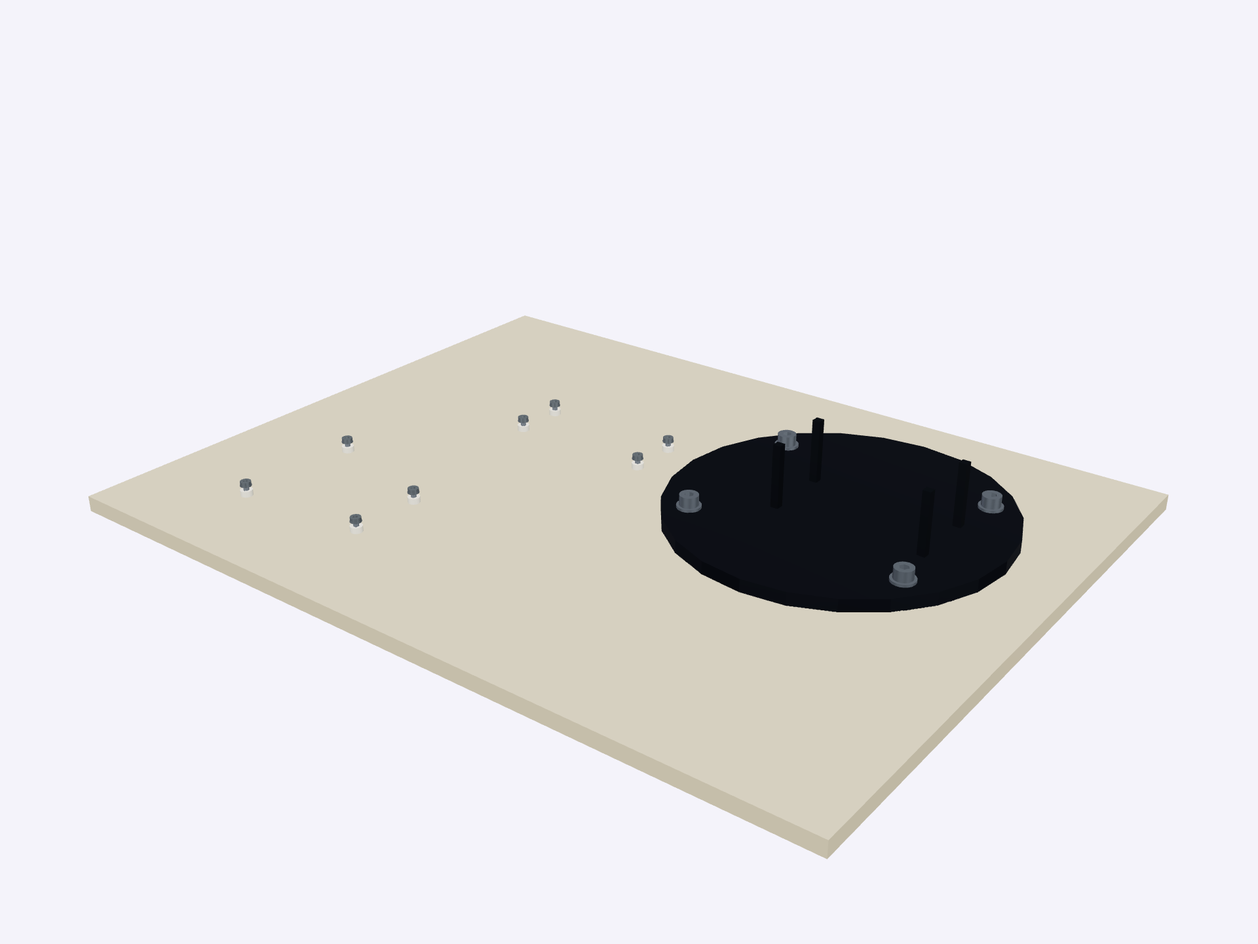
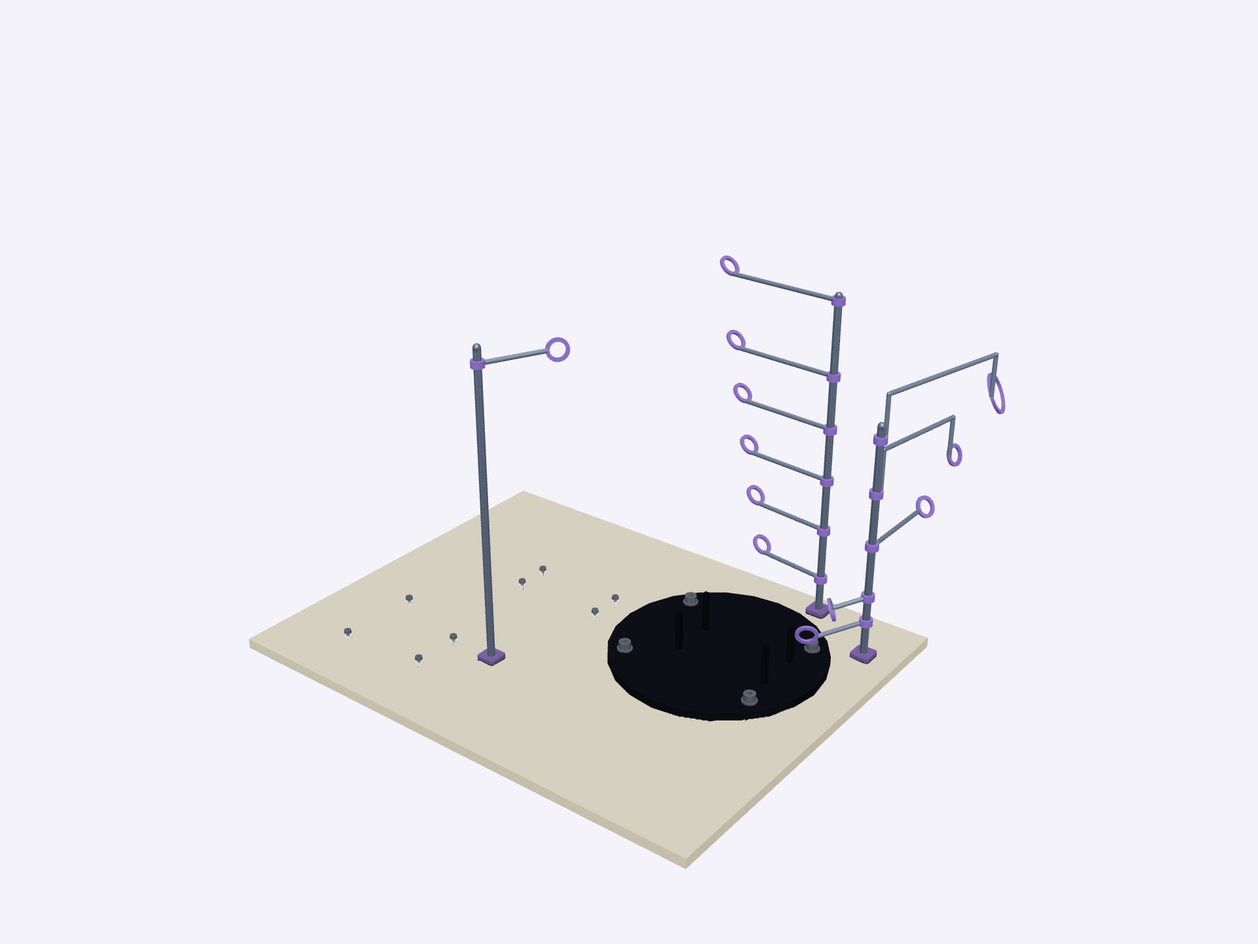
Integrate arm cable guides and add private two-build workshop chooser

Changed region(s): [[0.0625, 0.3125, 0.9375, 0.9375], [0.7188, 0.375, 0.8125, 0.4375], [0.5625, 0.2812, 0.6562, 0.3125]]

diff --git a/scripts/fixtures/rover-arm-cables.tsx b/scripts/fixtures/rover-arm-cables.tsx
@@ -1,8 +1,8 @@
-import LoomSupport from'../../src/modules/RoverArmLoomSupport';import{raArmLoomSupportParts}from'../../src/data/rover-arm-loom-support';
+import{raArmLoomSupportParts}from'../../src/data/rover-arm-loom-support';
 import Uno from'../../src/modules/RoverArmUnoParts';import Jumpers from'../../src/modules/RoverArmLogicJumpers';import Usb from'../../src/modules/RoverArmUsbParts';import Supply from'../../src/modules/RoverArmSupplyParts';import Mounts from'../../src/modules/RoverArmBoardMounts';import Anchors from'../../src/modules/RoverArmAnchors';import{raArmUnoAt}from'../../src/data/rover-arm-electronics';
 import{createRoot}from'react-dom/client';import{useRef,useState,memo}from'react';import{Canvas,useFrame,useThree,type ThreeEvent}from'@react-three/fiber';import{OrbitControls}from'@react-three/drei';import{Box3,Vector3,type PerspectiveCamera}from'three';
 import Cables from'../../src/modules/RoverArmCables';import Board from'../../src/modules/RoverArmPcaParts';import{raArmCableParts}from'../../src/data/rover-arm-cable-route';import{raPcaParts}from'../../src/data/rover-arm-pca';import Arm from'../../src/modules/RoverArmMechanics';import{raArmParts,raArmNeutral,raArmJoints}from'../../src/data/rover-arm-mechanics';import{raServoParts}from'../../src/data/rover-arm-servo';import Studio from'../../src/modules/SchoolBellStudioLight';import Label from'../../src/modules/CraneSurfaceLabel';import{inspectCraneSurface}from'../../src/modules/crane-inspection';import{floodSurfaceAnchor,floodAnchorWorld,type FloodAnchor}from'../../src/data/flood-surface';
 const FixedStudio=memo(Studio),prefix='ra-wired-arm';const allParts=[...raArmLoomSupportParts,...raArmCableParts(),...raPcaParts(),...raArmParts(),...raArmJoints.flatMap(j=>raServoParts('ra-arm-'+j.id+'-servo',j.label))];
-function Scene({angles,selected,choose,fullStation,powerOn,seating,loomSupport}:{loomSupport:boolean;fullStation:boolean;powerOn:boolean;seating:readonly(number|null)[];angles:number[];selected:string;choose:(id:string)=>void}){const r=useThree(),anchor=useRef<FloodAnchor|null>(null);useFrame(()=>Object.assign(window,{__raLoomScene:r,__raLoomAnchor:anchor,__raLoomSelected:selected,__raLoomFocus:(id:string,preferred?:[number,number,number])=>{r.scene.updateMatrixWorld(true);const root=r.scene.getObjectByName(prefix)!,part=r.scene.getObjectByName(id);if(!part)return null;const box=new Box3();part.traverse(o=>{if('isMesh'in o&&o.isMesh&&!('text'in o))box.expandByObject(o,true);});const camera=r.camera as PerspectiveCamera,distance=Math.max(.04,box.getSize(new Vector3()).length()*1.8);camera.near=distance/300;camera.updateProjectionMatrix();const a=inspectCraneSurface(root,camera,r.controls as any,id,preferred?new Vector3(...preferred):box.getCenter(new Vector3()),distance,r.size.width,r.size.height);if(!a)return null;const p=floodAnchorWorld(a).project(camera);return{x:(p.x+1)*r.size.width/2,y:(1-p.y)*r.size.height/2};}}));return <><FixedStudio/><color attach="background" args={['#eef0fa']}/><ambientLight intensity={1}/><directionalLight position={[2,4,3]} intensity={2.5}/><group scale={.01} onPointerDown={(e:ThreeEvent<PointerEvent>)=>{e.stopPropagation();anchor.current=floodSurfaceAnchor(e.object,e.point,e.face,e.instanceId);}}><group name="ra-wired-arm" userData={{fullStation,stationPowered:powerOn}}>{fullStation&&<><group position={[...raArmUnoAt]}><Uno {...{selected,choose}} powered={powerOn}/></group><Jumpers {...{selected,choose}} connected={['vcc','ground','sda','scl']}/><Usb {...{selected}} select={choose} usb={powerOn}/><Supply {...{selected,choose}} state={{on:powerOn,voltage:6,positive:{source:0,terminal:0,tight:true},negative:{source:0,terminal:0,tight:true}}}/><Mounts {...{selected,choose}}/>{loomSupport&&<LoomSupport {...{selected,choose}}/>}<Anchors {...{selected,choose}}/></>}<Arm {...{angles,selected,choose}}/><group position={[-110,3,0]}><Board {...{selected,choose}}/></group><Cables {...{selected,choose,seating}}/></group></group><Label selected={selected} anchor={anchor} name={allParts.find(p=>p.id===selected)?.label??''}/><OrbitControls makeDefault target={[0,1.7,0]}/></>;}
+function Scene({angles,selected,choose,fullStation,powerOn,seating,loomSupport}:{loomSupport:boolean;fullStation:boolean;powerOn:boolean;seating:readonly(number|null)[];angles:number[];selected:string;choose:(id:string)=>void}){const r=useThree(),anchor=useRef<FloodAnchor|null>(null);useFrame(()=>Object.assign(window,{__raLoomScene:r,__raLoomAnchor:anchor,__raLoomSelected:selected,__raLoomFocus:(id:string,preferred?:[number,number,number])=>{r.scene.updateMatrixWorld(true);const root=r.scene.getObjectByName(prefix)!,part=r.scene.getObjectByName(id);if(!part)return null;const box=new Box3();part.traverse(o=>{if('isMesh'in o&&o.isMesh&&!('text'in o))box.expandByObject(o,true);});const camera=r.camera as PerspectiveCamera,distance=Math.max(.04,box.getSize(new Vector3()).length()*1.8);camera.near=distance/300;camera.updateProjectionMatrix();const a=inspectCraneSurface(root,camera,r.controls as any,id,preferred?new Vector3(...preferred):box.getCenter(new Vector3()),distance,r.size.width,r.size.height);if(!a)return null;const p=floodAnchorWorld(a).project(camera);return{x:(p.x+1)*r.size.width/2,y:(1-p.y)*r.size.height/2};}}));return <><FixedStudio/><color attach="background" args={['#eef0fa']}/><ambientLight intensity={1}/><directionalLight position={[2,4,3]} intensity={2.5}/><group scale={.01} onPointerDown={(e:ThreeEvent<PointerEvent>)=>{e.stopPropagation();anchor.current=floodSurfaceAnchor(e.object,e.point,e.face,e.instanceId);}}><group name="ra-wired-arm" userData={{fullStation,stationPowered:powerOn}}>{fullStation&&<><group position={[...raArmUnoAt]}><Uno {...{selected,choose}} powered={powerOn}/></group><Jumpers {...{selected,choose}} connected={['vcc','ground','sda','scl']}/><Usb {...{selected}} select={choose} usb={powerOn}/><Supply {...{selected,choose}} state={{on:powerOn,voltage:6,positive:{source:0,terminal:0,tight:true},negative:{source:0,terminal:0,tight:true}}}/><Mounts {...{selected,choose}} organizer={loomSupport}/><Anchors {...{selected,choose}}/></>}<Arm {...{angles,selected,choose}}/><group position={[-110,3,0]}><Board {...{selected,choose}}/></group><Cables {...{selected,choose,seating}}/></group></group><Label selected={selected} anchor={anchor} name={allParts.find(p=>p.id===selected)?.label??''}/><OrbitControls makeDefault target={[0,1.7,0]}/></>;}
 function Fixture({fullStation=false,powerOn=true,loomSupport=false}:{fullStation?:boolean;powerOn?:boolean;loomSupport?:boolean}){const[angles,setAngles]=useState<number[]>([...raArmNeutral]),[selected,choose]=useState(''),[seating,setSeating]=useState<readonly(number|null)[]>([0,0,0,0,0,0]);Object.assign(window,{__raLoomSetAngles:setAngles,__raLoomAngles:angles,__raLoomSetSeating:setSeating,__raLoomSeating:seating});return <><div style={{height:680}}><Canvas camera={{position:[5.5,4.8,7.7],fov:42,near:.001,far:100}}><Scene {...{angles,selected,choose,fullStation,powerOn,seating,loomSupport}}/></Canvas></div><div style={{display:'flex',gap:8}}>{raArmJoints.map((j,i)=><button key={j.id} onClick={()=>setAngles(a=>a.map((v,n)=>n===i?v+.12:v))}>{j.label}</button>)}</div><output data-ra-selected>{selected}</output><div>{allParts.find(p=>p.id===selected)?.description}</div></>;}
 export function mount(el:HTMLElement,options:{fullStation?:boolean;powerOn?:boolean;loomSupport?:boolean}={}){el.style.cssText='position:fixed;inset:0;padding:20px;background:#eef0fa;color:#24314a;overflow:auto';const root=createRoot(el);root.render(<Fixture {...options}/>);return()=>root.unmount();}

diff --git a/src/modules/RoverArmGuideKitScene.tsx b/src/modules/RoverArmGuideKitScene.tsx
@@ -7,5 +7,5 @@ export type RaGuideKitApi={scene:Scene;camera:Camera;controls:any;root:Group};
 type Mode=RaGuidePartMode;
 const noRaycast=()=>{};
 const noop=()=>{},pose=raRoverPoseInitial(),complete=(fits:readonly{id:string}[])=>({completed:fits.map(f=>f.id),active:null,progress:0}),assemblies={boardAssembly:complete(raRoverBoardFits),mechanicalAssembly:complete(raRoverMechanicalFits),sensorAssembly:complete(raRoverSensorFits)},supply={on:false,voltage:6,positive:{source:0,terminal:0,tight:true},negative:{source:0,terminal:0,tight:true}},FixedStudio=memo(Studio);
-function keep(mode:Mode,id:string){switch(mode){case'uno':return id.startsWith('ra-rover-uno-');case'sonar':return id.startsWith('ra-rover-sonar-');case'driver':return id.startsWith('ra-rover-driver-');case'motors':return id==='ra-rover-left-motor'||id==='ra-rover-left-wheel';case'aa-holder':return id==='ra-rover-aa-holder'||id==='ra-rover-aa-switch';case'usb-bank':return id==='ra-rover-usb-bank';case'usb-cable':return id.startsWith('ra-arm-usb-');case'computer':return id.startsWith('ra-arm-computer-');case'rover-chassis':return id==='ra-rover-chassis'||id==='ra-rover-caster'||id.startsWith('ra-rover-caster-');case'rover-motor':return id==='ra-rover-left-motor'||id==='ra-rover-left-motor-pads'||/ra-rover-motor-(anchor|cradle|nut)-[12]$/.test(id);case'rover-pcb':return id.startsWith('ra-rover-board-mount-');case'rover-sensor':return id.startsWith('ra-rover-sensor-')||id.startsWith('ra-rover-sonar-');case'mini':return id==='ra-rover-ground-strip';case'arm-fixture':return id==='ra-electronics-fixture'||id==='ra-arm-baseplate'||id.startsWith('ra-arm-anchor-')||/ra-(uno|pca)-(spacers|fasteners)$/.test(id);case'extension':return id==='ra-arm-cable-0-extension';case'arm-supply':return['ra-supply-case','ra-supply-display','ra-supply-switch','ra-supply-positive-socket','ra-supply-negative-socket'].includes(id);default:return true;}}
+function keep(mode:Mode,id:string){switch(mode){case'uno':return id.startsWith('ra-rover-uno-');case'sonar':return id.startsWith('ra-rover-sonar-');case'driver':return id.startsWith('ra-rover-driver-');case'motors':return id==='ra-rover-left-motor'||id==='ra-rover-left-wheel';case'aa-holder':return id==='ra-rover-aa-holder'||id==='ra-rover-aa-switch';case'usb-bank':return id==='ra-rover-usb-bank';case'usb-cable':return id.startsWith('ra-arm-usb-');case'computer':return id.startsWith('ra-arm-computer-');case'rover-chassis':return id==='ra-rover-chassis'||id==='ra-rover-caster'||id.startsWith('ra-rover-caster-');case'rover-motor':return id==='ra-rover-left-motor'||id==='ra-rover-left-motor-pads'||/ra-rover-motor-(anchor|cradle|nut)-[12]$/.test(id);case'rover-pcb':return id.startsWith('ra-rover-board-mount-');case'rover-sensor':return id.startsWith('ra-rover-sensor-')||id.startsWith('ra-rover-sonar-');case'mini':return id==='ra-rover-ground-strip';case'arm-fixture':return id.startsWith('ra-arm-loom-')||id==='ra-electronics-fixture'||id==='ra-arm-baseplate'||id.startsWith('ra-arm-anchor-')||/ra-(uno|pca)-(spacers|fasteners)$/.test(id);case'extension':return id==='ra-arm-cable-0-extension';case'arm-supply':return['ra-supply-case','ra-supply-display','ra-supply-switch','ra-supply-positive-socket','ra-supply-negative-socket'].includes(id);default:return true;}}
 export default function RoverArmGuideKitScene({mode,interactive=false,selected='',choose=noop,anchor,onReady}:{mode:Mode;interactive?:boolean;selected?:string;choose?:(id:string)=>void;anchor?:MutableRefObject<FloodAnchor|null>;onReady?:(count:number,api:RaGuideKitApi)=>void}){const r=useThree(),root=useRef<Group>(null),frames=useRef(0),meshCount=useRef(0),raycasts=useRef(new WeakMap<Mesh,Mesh['raycast']>());useEffect(()=>{frames.current=0;},[r.size.width,r.size.height]);useFrame(()=>{if(!root.current)return;if(interactive&&frames.current>13){onReady?.(meshCount.current,{scene:r.scene,camera:r.camera,controls:r.controls,root:root.current});return;}root.current.updateWorldMatrix(true,true);const box=new Box3();let textReady=true,count=0;root.current.traverse(o=>{if('isMesh'in o&&o.isMesh){o.visible=keep(mode,floodOwner(o)??'');const mesh=o as Mesh;if(!raycasts.current.has(mesh))raycasts.current.set(mesh,mesh.raycast);mesh.raycast=o.visible?raycasts.current.get(mesh)!:noRaycast;if(o.visible&&'text'in o){if(!(o as any).textRenderInfo)textReady=false;}else if(o.visible){if(mode!=='extension'||floodOwner(o)==='ra-arm-cable-0-extension')box.expandByObject(o,true);count++;}}});if(box.isEmpty())return;const camera=r.camera as PerspectiveCamera,centre=box.getCenter(new Vector3()),direction=new Vector3(...(mode==='rover-motor'?[-1,-.65,1.2]:mode==='rover-sensor'?[.8,.7,-1.2]:[1,.8,1.3])as[number,number,number]).normalize(),right=new Vector3().crossVectors(new Vector3(0,1,0),direction).normalize(),up=new Vector3().crossVectors(direction,right).normalize(),tanV=Math.tan(camera.fov*Math.PI/360),tanH=tanV*r.size.width/r.size.height,points=[];for(const x of[box.min.x,box.max.x])for(const y of[box.min.y,box.max.y])for(const z of[box.min.z,box.max.z])points.push(new Vector3(x,y,z));let distance=.04;for(const point of points){const q=point.clone().sub(centre);distance=Math.max(distance,q.dot(direction)+Math.abs(q.dot(right))/tanH,q.dot(direction)+Math.abs(q.dot(up))/tanV);}if(!interactive||frames.current<13){camera.position.copy(centre).addScaledVector(direction,distance*1.12);camera.lookAt(centre);if(r.controls){(r.controls as any).target.copy(centre);(r.controls as any).update();}camera.updateMatrixWorld();}meshCount.current=count;if(++frames.current>12&&textReady)onReady?.(count,{scene:r.scene,camera:r.camera,controls:r.controls,root:root.current});});const rover=mode.startsWith('rover')||['mini','uno','sonar','driver','motors','aa-holder','usb-bank'].includes(mode);return <><FixedStudio/><color attach="background" args={['#f4f3fa']}/><ambientLight intensity={1}/><directionalLight position={[3,7,4]} intensity={2.5}/><group ref={root} name="ra-kit-reference-model" onPointerDown={e=>{e.stopPropagation();if(anchor)anchor.current=floodSurfaceAnchor(e.object,e.point,e.face,e.instanceId);}}>{rover?<><Hardware {...assemblies} {...{pose}} {...{selected,choose}}/>{mode==='rover-stand'&&<><mesh name="ra-rover-test-stand" userData={{partId:'ra-rover-test-stand'}} onClick={e=>{e.stopPropagation();choose('ra-rover-test-stand');}} position={[0,.45,.2]}><boxGeometry args={[.5,.92,.9]}/><meshStandardMaterial color={selected==='ra-rover-test-stand'?'#b78be8':'#4a425c'}/></mesh><mesh name="ra-rover-course-card" userData={{partId:'ra-rover-course-card'}} onClick={e=>{e.stopPropagation();choose('ra-rover-course-card');}} position={[0,1.24,-6]}><boxGeometry args={[2.4,2.5,.04]}/><meshStandardMaterial color={selected==='ra-rover-course-card'?'#b78be8':'#a085d3'}/></mesh></>}</>:<group scale={.02}>{mode==='usb-cable'||mode==='computer'?<Usb {...{selected}} select={choose}/>:mode==='pca'?<group position={[...raArmPcaAt]}><Board {...{selected,choose}}/></group>:mode==='arm-supply'?<Supply {...{selected,choose}} state={supply}/>:<><Arm {...{selected,choose}} angles={[...raArmNeutral]}/>{mode==='arm-fixture'&&<><Mounts {...{selected,choose}}/><Anchors {...{selected,choose}}/></>}{mode==='extension'&&<><group position={[...raArmPcaAt]}><Board {...{selected,choose}}/></group><Cables {...{selected,choose}}/></>}</>}</group>}</group></>;}

diff --git a/src/data/rover-arm.ts b/src/data/rover-arm.ts
@@ -20,7 +20,7 @@ export const roverArm:Build={
     ["Rover motor cradles and contact pads", "4 cradles + 4 pads + 4 bolt sets", "Each motor rests on two U-shaped cradles against two adhesive contact pads. Four captive screws with washers go in before the PCBs; four lower nuts later retain the cradle flanges."],
     ["Rover insulated board mounting sets", "6 complete stacks", "Four Uno and two driver positions each use a hollow post, insulating washer, through-bolt and lower nut. Fit all lower nuts before the motors obstruct underside access."],
     ["Ultrasonic support and fastening kit", "1 bracket + 6 retaining sets", "Four hollow spacers and four small screw/washer/nut sets retain the sensor PCB. Two larger screw/washer/nut sets retain the bracket foot on the chassis."],
-    ["Arm fixture and board mounting hardware", "1 fixture + 12 retaining sets", "Four base anchor sets secure the arm. Eight PCB sets provide insulating posts, washers, through-screws and underside nuts for the Uno and PWM driver. Match the actual kit bores."],
+    ["Arm fixture and board mounting hardware", "1 fixture + 12 retaining sets", "Four base anchor sets secure the arm. Eight PCB sets provide insulating posts, washers, through-screws and underside nuts for the Uno and PWM driver. The fixture includes three preassembled adhesive-footed guide posts and twelve loose cable eyes. Match the actual kit bores."],
     ["Three-wire servo extension leads", "6 × 1 m", "Each final arm joint uses its nominal 320 mm attached lead plus one 1 m extension. Preserve brown GND, red V+ and orange signal through every coupling. The unloaded calibration jig uses the attached lead directly."],
     ["USB-A to USB-B data cable", "1", "Carries upload/serial data and logic power from the computer to the Uno. Move the Type-A end to the power bank for the rover; this cable does not carry motor or servo V+ current."],
     ["Computer with USB and Arduino IDE", "1", "Uploads the C++ Arduino sketch and provides the 115200-baud Serial Monitor for arm commands. The standalone browser workshop models this process without uploading to a physical board."],
@@ -34,7 +34,7 @@ export const roverArm:Build={
     ["Check the lifted wheels", "Start USB logic, then AA motor power. With a broad flat card farther than 25 cm from the sensor face, confirm both wheels request forward drive. A valid reading from 4 to 25 cm requests opposite wheel directions for a timed turn; a missing or very close echo requests stop. If a motor is reversed, switch both sources off before swapping its two leads.", "The chassis stays on the stand while the wheels respond. Switch AA off, then USB off, and let the wheels stop before moving the rover.", [1, 2, 3, 5, 10, 16, 18]],
     ["Try a floor obstacle trial", "With both sources off and the wheels stopped, move the rover from the stand to a flat floor course. Use the USB bank for logic. Start logic before AA motor power and place a broad card ahead. Compare a clear path with a near card; observe the short timed turn and the next sampled heading rather than expecting continuous steering during that turn.", "The car samples again after turning. The browser shows its last sampled beam; it does not model tyre slip, contact collisions or acoustic reflections.", [1, 2, 3, 5, 10, 18]],
     ["Check all six unloaded servos", "Disconnect rover supplies, remove the A2 ground link and set up the prechecked arm service jig. Connect one horn-free servo at a time: brown to GND, red to V+ and orange to the selected channel signal. Start USB logic, then the matched actuator source. Check neutral, the small jog and timed return, record the result, then switch actuator output off before USB and before changing servos.", "All six channels have an unloaded result before assembly. The virtual response is authored; adjust a physical kit’s centre/jog values before attaching its linkages.", [0, 6, 7, 8, 9, 16, 17]],
-    ["Assemble and secure the stationary arm", "With both sources off, secure the arm base to its fixture using all four retained anchors. Follow the workshop from base through shoulder, elbow, wrist pitch, wrist roll and gripper. Seat horns at the checked neutral orientation and retain their centre screws. Mount both PCBs on the eight insulated fixture stacks. Add one 1 m extension to each attached servo lead without reversing its three conductors.", "The base stays flat. Each case is fixed to its parent cradle while its horn moves the next link; slack follows the joints rather than pulling a plug.", [6, 7, 8, 14, 15]],
+    ["Assemble and secure the stationary arm", "With both sources off, secure the arm base to its fixture using all four retained anchors. Follow the workshop from base through shoulder, elbow, wrist pitch, wrist roll and gripper. Seat horns at the checked neutral orientation and retain their centre screws. Mount both PCBs on the eight insulated fixture stacks. Add one 1 m extension to each attached servo lead without reversing its three conductors. Route each lead through its labelled incoming eye and its service-loop return eye; leave the two broad slack turns loose, never taut.", "The base stays flat. Each case is fixed to its parent cradle while its horn moves the next link; slack follows the joints rather than pulling a plug.", [6, 7, 8, 14, 15]],
     ["Wire and test one arm channel at a time", "Leave A2 open at startup. Connect Uno A4/A5 to SDA/SCL, Uno 5 V to logic VCC and GND to the shared reference. Clamp the separate actuator supply into V+ and GND, then seat servo extensions on channels 0–5 in base-to-gripper order. Start USB logic before actuator output. In the 115200-baud Serial Monitor send h, then 1–6 individually with the gripper empty.", "Only the selected servo changes relative to its parent link and returns to neutral. Shut actuator output down before USB; never change a connection while either source is on.", [0, 6, 7, 8, 9, 15, 16, 17]],
   ],
   wiring:[

diff --git a/src/modules/RoverArmWorkshopScene.tsx b/src/modules/RoverArmWorkshopScene.tsx
@@ -1,3 +1,4 @@
+import{raArmLoomSupportParts}from'../data/rover-arm-loom-support';
 import CalibrationJig from'./RoverArmCalibrationJig';import{raCalibrationLeadParts}from'../data/rover-arm-calibration-jig';
 import{memo,useEffect,useRef,type MutableRefObject}from'react';
 import{useFrame,useThree,type ThreeEvent}from'@react-three/fiber';
@@ -8,7 +9,7 @@ import{raArmParts,raArmNeutral,raArmJoints}from'../data/rover-arm-mechanics';imp
 import Studio from'./SchoolBellStudioLight';import Label from'./CraneSurfaceLabel';import{inspectCraneSurface}from'./crane-inspection';import{floodSurfaceAnchor,floodVisible,type FloodAnchor}from'../data/flood-surface';
 function physicalCorners(root:Scene|ReturnType<Scene['getObjectByName']>){const points:Vector3[]=[];root?.traverse(o=>{if(!('isMesh'in o)||!o.isMesh||'text'in o||!floodVisible(o))return;const m=o as Mesh;let box:Box3|null;if(m instanceof InstancedMesh){m.computeBoundingBox();box=m.boundingBox;}else{if(!m.geometry.boundingBox)m.geometry.computeBoundingBox();box=m.geometry.boundingBox;}if(box)for(const x of[box.min.x,box.max.x])for(const y of[box.min.y,box.max.y])for(const z of[box.min.z,box.max.z])points.push(new Vector3(x,y,z).applyMatrix4(m.matrixWorld));});return points;}
 const FixedStudio=memo(Studio),prefix='ra-workflow-model';
-export const raArmWorkshopParts=[...raArmParts(),...raArmAnchorParts,...raArmMountParts,...raArmMountNutParts,...raArmUnoParts,...raArmSocketParts,...raArmLogicJumperParts,...raPcaParts(),...raArmCableParts(),...raArmSupplyParts,...raArmUsbParts.map(([id,label,a,b])=>({id,label,description:a+' '+b})),...raArmJoints.flatMap(j=>raServoParts('ra-arm-'+j.id+'-servo',j.label).map(p=>p.id.endsWith('-horn')?{...p,label:j.label+' · output horn',description:'Fitted at the checked neutral orientation, this horn transfers spline rotation to the attached mechanism. '+j.connection+' The centre retaining screw keeps the horn seated on the output spline.'}:p)),...raServoParts('ra-calibration-servo','Unloaded servo'),...raCalibrationLeadParts,{id:'ra-calibration-plug',label:'Selected unloaded servo · three-contact plug',description:'The brown, red and orange conductors meet GND, V+ and signal on the selected channel. Only one unloaded servo is connected; switch both sources off before changing it.'}];
+export const raArmWorkshopParts=[...raArmLoomSupportParts,...raArmParts(),...raArmAnchorParts,...raArmMountParts,...raArmMountNutParts,...raArmUnoParts,...raArmSocketParts,...raArmLogicJumperParts,...raPcaParts(),...raArmCableParts(),...raArmSupplyParts,...raArmUsbParts.map(([id,label,a,b])=>({id,label,description:a+' '+b})),...raArmJoints.flatMap(j=>raServoParts('ra-arm-'+j.id+'-servo',j.label).map(p=>p.id.endsWith('-horn')?{...p,label:j.label+' · output horn',description:'Fitted at the checked neutral orientation, this horn transfers spline rotation to the attached mechanism. '+j.connection+' The centre retaining screw keeps the horn seated on the output spline.'}:p)),...raServoParts('ra-calibration-servo','Unloaded servo'),...raCalibrationLeadParts,{id:'ra-calibration-plug',label:'Selected unloaded servo · three-contact plug',description:'The brown, red and orange conductors meet GND, V+ and signal on the selected channel. Only one unloaded servo is connected; switch both sources off before changing it.'}];
 export type RaArmSceneApi={scene:Scene;camera:Camera;anchor:MutableRefObject<FloodAnchor|null>;inspect:(id:string)=>boolean;overview:()=>void};
 export default function RoverArmWorkshopScene({state,selected,choose,api,focus}:{state:RaArmWorkflow;selected:string;choose:(id:string)=>void;api:MutableRefObject<RaArmSceneApi|null>;focus:{id:string;token:number}|null}){
  const r=useThree(),overviewFrames=useRef(3),anchor=useRef<FloodAnchor|null>(null),pending=useRef<{id:string;tries:number}|null>(null),tracking=useRef<{id:string;center:Vector3}|null>(null),view=raArmConnectionView(state.connections),calibration=state.phase==='calibration',assembled=state.phase==='wiring'||state.phase==='operation';

diff --git a/src/modules/RoverArmCombinedWorkshop.tsx b/src/modules/RoverArmCombinedWorkshop.tsx
@@ -1,0 +1,44 @@
+import {useCallback,useRef,useState} from 'react';
+import {CarFront,Hand,LockKeyhole} from 'lucide-react';
+import Rover from './RoverArmRoverWorkshop';
+import Arm from './RoverArmWorkshop';
+import {raRoverWorkflowInitial,type RaRoverWorkflow} from '../data/rover-arm-rover-workflow';
+import {raArmWorkflowInitial,type RaArmWorkflow} from '../data/rover-arm-workflow';
+import '../styles/rover-arm-build-choice.css';
+type Build='rover'|'arm';
+function roverLock(s:RaRoverWorkflow){
+ if(s.connections.controllerOn||s.connections.motorsOn)return 'Switch AA motor power off, then USB logic off before changing builds.';
+ if(Math.abs(s.course.world.pose.leftVelocity)>.001||Math.abs(s.course.world.pose.rightVelocity)>.001)return 'Let the wheels coast to a stop before changing builds.';
+ if([s.boards,s.mechanics,s.sensor,s.connections].some(f=>f.active))return 'Finish the current fitting before changing builds.';
+ return '';
+}
+function armLock(s:RaArmWorkflow){
+ if(s.calibration.controllerOn||s.calibration.actuatorsOn||s.connections.controllerOn||s.connections.actuatorsOn)return 'Switch actuator power off, then USB logic off before changing builds.';
+ if([s.assembly,s.boards,s.connections].some(f=>f.active))return 'Finish the current fitting before changing builds.';
+ return '';
+}
+/** Alternative builds share one Uno. Their evidence is retained separately;
+ * changing build unmounts the previous scene and its animation loop. */
+export default function RoverArmCombinedWorkshop(){
+ const[build,setBuild]=useState<Build>('rover'),[lock,setLock]=useState('');
+ const rover=useRef(raRoverWorkflowInitial()),arm=useRef(raArmWorkflowInitial());
+ const saveRover=useCallback((s:RaRoverWorkflow)=>{rover.current=s;setLock(roverLock(s));},[]);
+ const saveArm=useCallback((s:RaArmWorkflow)=>{arm.current=s;setLock(armLock(s));},[]);
+ function change(next:Build){
+  const reason=build==='rover'?roverLock(rover.current):armLock(arm.current);
+  if(next===build||reason)return;
+  setLock('');setBuild(next);
+ }
+ return <div className="ra-combined-workshop">
+  <section className="ra-build-choice" aria-label="Choose your workshop build">
+   <div className="ra-build-choice-heading"><span>ONE KIT · TWO BUILDS</span><h2>What will you build?</h2><p>Use the Uno for one build at a time. Each build keeps its own assembly progress while you explore the other.</p></div>
+   <div className="ra-build-choice-options">
+    {(['rover','arm']as const).map(id=><button key={id} type="button" aria-pressed={build===id} disabled={build!==id&&!!lock} onClick={()=>change(id)}>
+     <span className="ra-build-choice-icon">{id==='rover'?<CarFront/>:<Hand/>}</span><span><strong>{id==='rover'?'Obstacle-avoiding rover':'Six-axis robotic arm'}</strong><small>{id==='rover'?'Assemble the car, wire its sensor and try the course.':'Calibrate six servos, fit the joints and control the arm.'}</small><b>{id==='rover'?'A2 linked to GND at startup':'A2 open at startup'}</b></span><span className="ra-build-choice-status">{build===id?'Selected':'Choose build'}</span>
+    </button>)}
+   </div>
+   {lock&&<p className="ra-build-choice-lock" role="status"><LockKeyhole size={16}/>{lock}</p>}
+  </section>
+  {build==='rover'?<Rover key="rover" initialState={rover.current} onStateChange={saveRover}/>:<Arm key="arm" initialState={arm.current} onStateChange={saveArm}/>}
+ </div>;
+}

diff --git a/src/modules/RoverArmBoardMounts.tsx b/src/modules/RoverArmBoardMounts.tsx
@@ -1,3 +1,4 @@
+import LoomSupport from'./RoverArmLoomSupport';
 import{raArmBoardFitPart,type RaArmBoardAssembly}from'../data/rover-arm-board-assembly';
 import{raArmAnchors}from'../data/rover-arm-anchors';
 import{memo,useMemo,type ReactNode}from'react';import type{ThreeEvent}from'@react-three/fiber';import{Shape,Path}from'three';import{raArmBoardMounts}from'../data/rover-arm-electronics';
@@ -7,9 +8,10 @@ function ring(outer:number,inner:number){const s=new Shape();s.absarc(0,0,outer,
 function shapes(){const fixture=new Shape();fixture.moveTo(-225,-150);fixture.lineTo(85,-150);fixture.lineTo(85,90);fixture.lineTo(-225,90);fixture.closePath();for(const p of raArmBoardMounts)hole(fixture,p.x,p.z,1.2);for(const a of raArmAnchors)hole(fixture,a.x,a.z,2.2);
  const head=ring(2,0);head.holes=[];const socket=new Path();for(let n=0;n<6;n++){const a=-n*Math.PI/3;n?socket.lineTo(.87*Math.cos(a),.87*Math.sin(a)):socket.moveTo(.87,0);}socket.closePath();head.holes.push(socket);
  const nut=new Shape();for(let n=0;n<6;n++){const a=n*Math.PI/3;n?nut.lineTo(2.3*Math.cos(a),2.3*Math.sin(a)):nut.moveTo(2.3,0);}nut.closePath();hole(nut,0,0,1.05);return{fixture,post:ring(2.3,1.1),washer:ring(2.15,1.1),head,nut};}
-function RoverArmBoardMounts({selected,choose,boards=['uno','pca'],assembly}:{selected:string;choose:(id:string)=>void;boards?:readonly('uno'|'pca')[];assembly?:RaArmBoardAssembly}){const s=useMemo(shapes,[]),mat=(id:string,color:string,metalness=0)=>({color:selected===id?'#c4a2ff':color,metalness,roughness:metalness ? .3 : .62});const tag=(id:string,node:ReactNode,offset=0)=><group position={[0,offset,0]} name={id} userData={{partId:id}} onClick={(e:ThreeEvent<MouseEvent>)=>{e.stopPropagation();choose(id);}}>{node}</group>;
+function RoverArmBoardMounts({selected,choose,boards=['uno','pca'],assembly,organizer=true}:{selected:string;choose:(id:string)=>void;boards?:readonly('uno'|'pca')[];assembly?:RaArmBoardAssembly;organizer?:boolean}){const s=useMemo(shapes,[]),mat=(id:string,color:string,metalness=0)=>({color:selected===id?'#c4a2ff':color,metalness,roughness:metalness ? .3 : .62});const tag=(id:string,node:ReactNode,offset=0)=><group position={[0,offset,0]} name={id} userData={{partId:id}} onClick={(e:ThreeEvent<MouseEvent>)=>{e.stopPropagation();choose(id);}}>{node}</group>;
  const plate=(shape:Shape,id:string,x:number,y:number,z:number,opt:typeof options.post,color:string,metalness=0)=><mesh position={[x,y,z]} rotation={[-Math.PI/2,0,0]}><extrudeGeometry args={[shape,opt]}/><meshStandardMaterial {...mat(id,color,metalness)}/></mesh>;
  return <group name="ra-board-mounts">
+ {organizer&&<LoomSupport {...{selected,choose}}/>}
  {tag('ra-electronics-fixture',plate(s.fixture,'ra-electronics-fixture',0,-6,0,options.fixture,'#c3b89c'))}
  {boards.map(board=>{const posts=`ra-${board}-spacers`,bolts=`ra-${board}-fasteners`,nuts=`ra-${board}-mount-nuts`,fit=(end:string)=>assembly?raArmBoardFitPart(assembly,board+'-'+end):{visible:true,progress:1},travel=(t:number)=>25*(1-t*t*(3-2*t)),post=fit('spacers'),bolt=fit('bolts'),nut=fit('nuts');return <group key={board}>
  {post.visible&&tag(posts,<>{raArmBoardMounts.filter(p=>p.board===board).map((p,i)=><group key={i}>{plate(s.post,posts,p.x,0,p.z,options.post,'#e3decd')}</group>)}</>,travel(post.progress))}

diff --git a/src/styles/rover-arm-build-choice.css b/src/styles/rover-arm-build-choice.css
@@ -1,0 +1,4 @@
+.ra-build-choice{margin-bottom:20px;padding:24px;border:1px solid #d9d9ed;border-radius:20px;background:linear-gradient(120deg,#fff,#f2efff);color:#202944}
+.ra-build-choice-heading>span{font-size:11px;font-weight:800;letter-spacing:.13em;color:#7450b8}.ra-build-choice-heading h2{margin:6px 0 8px;font-size:24px;line-height:1.25}.ra-build-choice-heading p{margin:0;max-width:760px;color:#53617a;line-height:1.6}
+.ra-build-choice-options{display:grid;grid-template-columns:repeat(2,minmax(0,1fr));gap:14px;margin-top:20px}.ra-build-choice-options button{display:flex;align-items:center;gap:14px;text-align:left;padding:18px;border:1px solid #d5d7e8;border-radius:14px;background:#fff;color:#25304a;cursor:pointer;font:inherit;min-width:0;transition:border-color .15s,box-shadow .15s}.ra-build-choice-options button[aria-pressed=true]{background:#eee8ff;border-color:#9764e2;box-shadow:inset 0 0 0 1px #9764e2}.ra-build-choice-options button:focus-visible{outline:3px solid #7143c0;outline-offset:3px}.ra-build-choice-options button:disabled{cursor:not-allowed;opacity:.65}.ra-build-choice-icon{display:grid;place-items:center;flex:0 0 42px;height:42px;border-radius:12px;background:#e8defa;color:#6f40b8}.ra-build-choice-options strong,.ra-build-choice-options small,.ra-build-choice-options b{display:block}.ra-build-choice-options strong{font-size:16px;line-height:1.35}.ra-build-choice-options small{margin:5px 0 8px;line-height:1.5;color:#53617a}.ra-build-choice-options b{font-size:11px;color:#6540a5}.ra-build-choice-status{margin-left:auto;flex:0 0 auto;font-size:11px;font-weight:800;color:#6540a5}.ra-build-choice-lock{display:flex;align-items:center;gap:8px;margin:16px 0 0;font-size:13px;line-height:1.5;color:#60458c}
+@media(max-width:760px){.ra-build-choice{padding:18px}.ra-build-choice-options{grid-template-columns:1fr}.ra-build-choice-options button{padding:14px;gap:10px}.ra-build-choice-status{max-width:50px}.ra-build-choice-heading h2{font-size:21px}}

diff --git a/src/data/rover-arm-guide-kits.ts b/src/data/rover-arm-guide-kits.ts
@@ -3,7 +3,7 @@ export const raGuideKitReferences=[
  {id:'rover-motor',name:'Rover motor cradles and contact pads',label:'Authored 3D reference · one motor with its two cradle stacks and contact pads; build both sides'},
  {id:'rover-pcb',name:'Rover insulated board mounting sets',label:'Authored 3D reference · six board-mount stacks in fitted positions; PCB/chassis layers omitted'},
  {id:'rover-sensor',name:'Ultrasonic support and fastening kit',label:'Authored 3D reference · sensor in its bracket, four spaced PCB mounts and two retained chassis anchors'},
- {id:'arm-fixture',name:'Arm fixture and board mounting hardware',label:'Authored 3D reference · drilled fixture, four base anchors and eight insulated board-mount positions'},
+ {id:'arm-fixture',name:'Arm fixture and board mounting hardware',label:'Authored 3D reference · drilled fixture, preassembled cable-guide posts/eyes, four base anchors and eight insulated board-mount positions'},
  {id:'extension',name:'Three-wire servo extension leads',label:'Authored 3D reference · three-contact extension coupling detail; use six 1 m leads and preserve brown/red/orange order'},
  {id:'mini',name:'170-point mini breadboard and jumper leads',label:'Authored 3D reference · the actual 170-point board with separate five-contact ties'},
  {id:'arm-supply',name:'Matched 6 V arm actuator supply',label:'Authored 3D reference · the workshop regulated actuator source, shown set to 6.00 V with output off'},

diff --git a/scripts/fixtures/rover-arm-combined.tsx b/scripts/fixtures/rover-arm-combined.tsx
@@ -1,0 +1,3 @@
+import{createRoot}from'react-dom/client';
+import Workshop from'../../src/modules/RoverArmCombinedWorkshop';
+export function mount(el:HTMLElement){el.style.cssText='position:relative;padding:24px;background:#f5f4fc;color:#24314a;min-height:100vh';const root=createRoot(el);root.render(<Workshop/>);return()=>root.unmount();}

diff --git a/docs/3D-WORKSHOP-PROGRESS.md b/docs/3D-WORKSHOP-PROGRESS.md
@@ -1905,3 +1905,15 @@ The strict full-station organizer check passes all 39 individual/combined sample
 Native interaction checks pass all 15 organizer owners, actual eye-surface picking for all twelve guides (rather than their arms/collars), full owned-surface highlighting, attached labels and retained geometry/attribute/index identities. Log: /tmp/atlas-ra-support-eye-interaction.log. The screenshot was visually reviewed. Targeted strict TypeScript passes. The 122 arm/rover tests and Vite build passed during the shared-coordinate checkpoint; subsequent changes are private fixture/organizer files and do not add a product route.
 
 The organizer is mounted only with RA_LOOM_SUPPORT=1 in the private inspection fixture. Full connector fitting travel, unloaded calibration-jig clearance, product/workflow/BOM/reference integration, broader mechanical checks, animation tuning and combined routed workshop QA remain. No new guide is published: 83/150 workshops remain complete, Phase 2 still has 61 guides/workshops pending, and the full 211-guide goal stays active.
+
+Directory-35 organizer fitting/integration checkpoint: all 54 sampled servo-plug fitting configurations pass with the twelve eyes and three posts installed. The strict full-station run includes all main-wire pairs, wire/hardware contacts, organizer/station contacts and moving plug bodies; both sources remain off and actual wire endpoints/buffers remain correct. Report: /tmp/atlas-ra-organizer-fitting-54-clear.json; log: /tmp/atlas-ra-organizer-fitting.log. These are nine sampled offsets for each of six plugs, not a continuous swept-volume proof.
+
+Integrated the organizer into the shared arm fixture, so unloaded calibration, assembly/wiring/operation and the component preview now use the same parts. The inspection fixture disables this assembly explicitly when an organizer-free baseline is requested; no duplicate organizer is mounted. Added its fifteen role/connection descriptions to the workshop part inspector. Updated the component list and assembly instructions to identify the prepared guide posts/eyes and loose service turns. Regenerated the 1920 × 1440 arm-fixture reference from the same solids, with a matching caption; the image was visually reviewed. The renderer can now select one named reference and rejects unknown names.
+
+Native unloaded-jig regression passes all six 320 mm routes against the organizer/station, actual lead/plug picks and labels, plus the phone viewport. Log: /tmp/atlas-ra-organizer-calibration.log. All 122 arm/rover tests, targeted strict TypeScript and production Vite build pass; the existing large-chunk warning remains.
+
+Added a private combined rover/arm chooser in the Atlas colour theme. It retains independent progress, mounts only the selected scene and blocks switching while sources are on, a fitting is unfinished, or rover wheels are still coasting. Mode captions use A2, matching SELECT=A2 in the downloadable program; D2 remains the motor-driver standby output. Native checks pass an actual rover fitting, fitting lockout, switching to arm, both arm source lockouts and ordered shutdown, returning to the saved rover fitting, one mounted canvas and desktop/phone layout. Log: /tmp/atlas-ra-combined-final-ui.log. This does not claim a full cold-start run of both builds through the combined chooser.
+
+The combined chooser is not registered as a published workshop. Broader mechanical/swept-clearance checks, animation tuning, full combined workflow and routed guide QA still remain. Published count remains 83/150; Phase 2 retains 61 pending guides/workshops. The full 211-guide goal remains active.
+
+Final integrated wiring regression also passes all eighteen actual fitting steps, surface selection/highlighting, midpoint travel with retained buffers, attached labels, independent source power, shutdown interlock, reset and live RAF fitting. Log: /tmp/atlas-ra-organizer-connections-ui.log.
